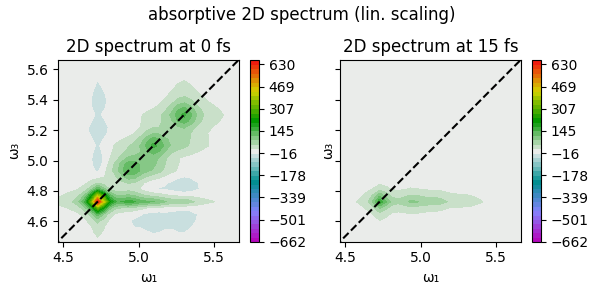
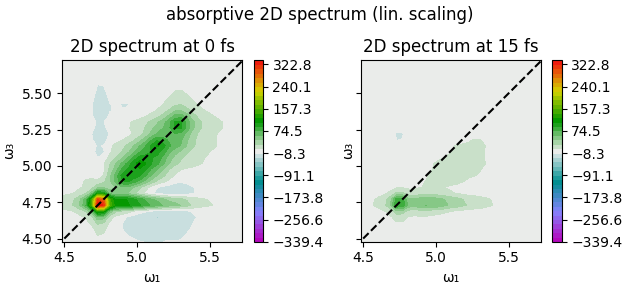
update RM with figures

diff --git a/README.md b/README.md
@@ -145,11 +145,23 @@ Here, ω<sub>r</sub> is the energy/frequency/... of the cavity mode, a<sup>†</
 
 ### Ensemble of two-level systems with disorder
 
+In order to study the effect of disorder on the 2D signal [examples\ensemble_of_TLSs_w_disorder.jl](examples\ensemble_of_TLSs_w_disorder.jl) creates a composite Hamiltonian of ``num_of_TLSs`` two-level systems, whose energies are distributed by the function used to create ``disorder``. For a Gaussian distribution of energies and 5 ``num_of_TLSs = 5`` the energy diagram looks as follows:
+
 ![ensemble Elevels](example_images/ensemble_energiesLevels.png)
+
+and the relevant single excited manifold
+
+![ensemble Elevels](example_images/ensemble_energiesLevelsZoom.png)
+
+This system leads to the following correlation function and absorption spectrum  with the Lindblad-operator ....
 
 ![ensemble spectrum](example_images/ensemble_corrSpec.png)
 
+... and the system dynamics:
+
 ![ensemble relaxation](example_images/ensemble_relaxation.png)
+
+The resulting 2D spectrum is characterized by an elongated diagonal peak, and relaxation to the lowest excited state leads to sub-diagonal crosspeaks.
 
 ![ensemble 2D](example_images/ensemble_2D.png)
 
@@ -185,6 +197,11 @@ In addition, also the rephasing (out2d.full2d_r) and non-rephasing (out2d.full2d
 <img src="/example_images/coupledDimer_r.png" width="350"/>
 <img src="/example_images/coupledDimer_nr.png" width="350"/>
 </p>
+
+
+### Convolution with laser spectrum
+
+
 
 ### Does it wiggle ?
 
